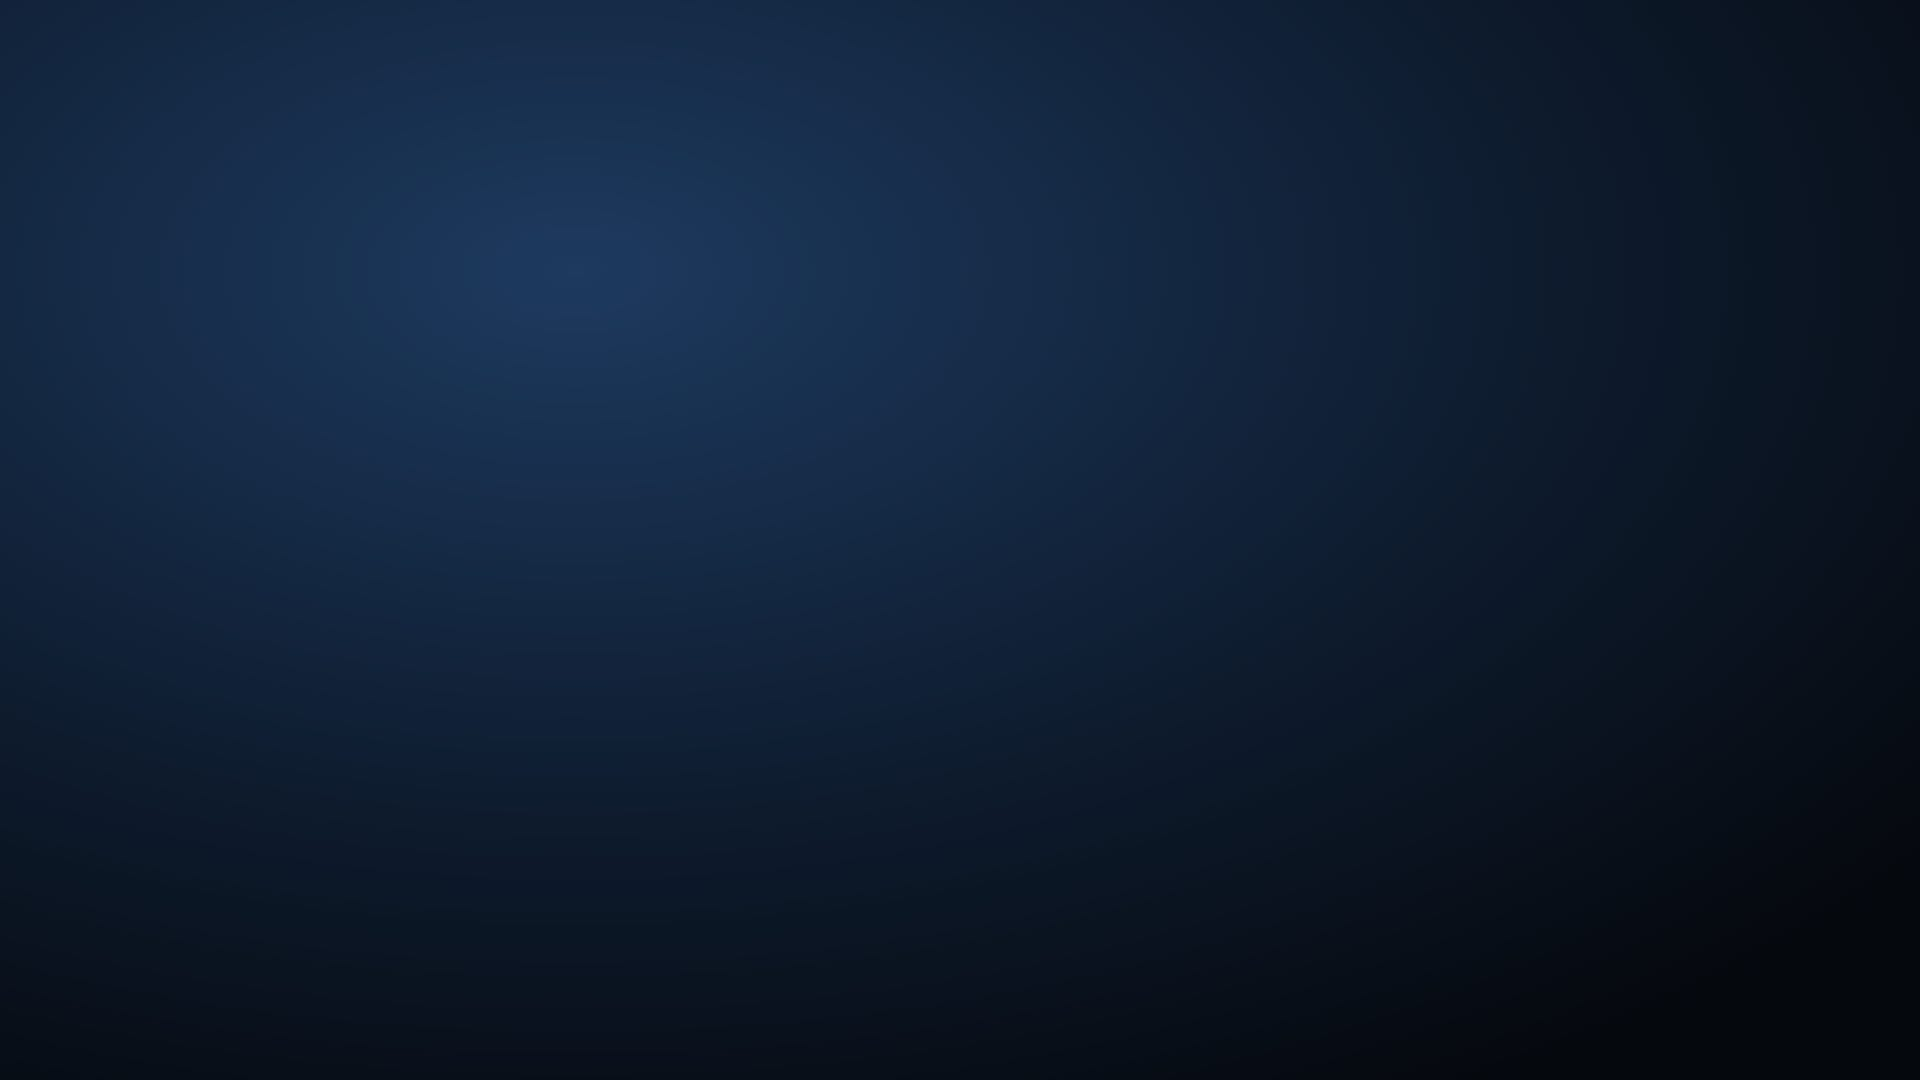
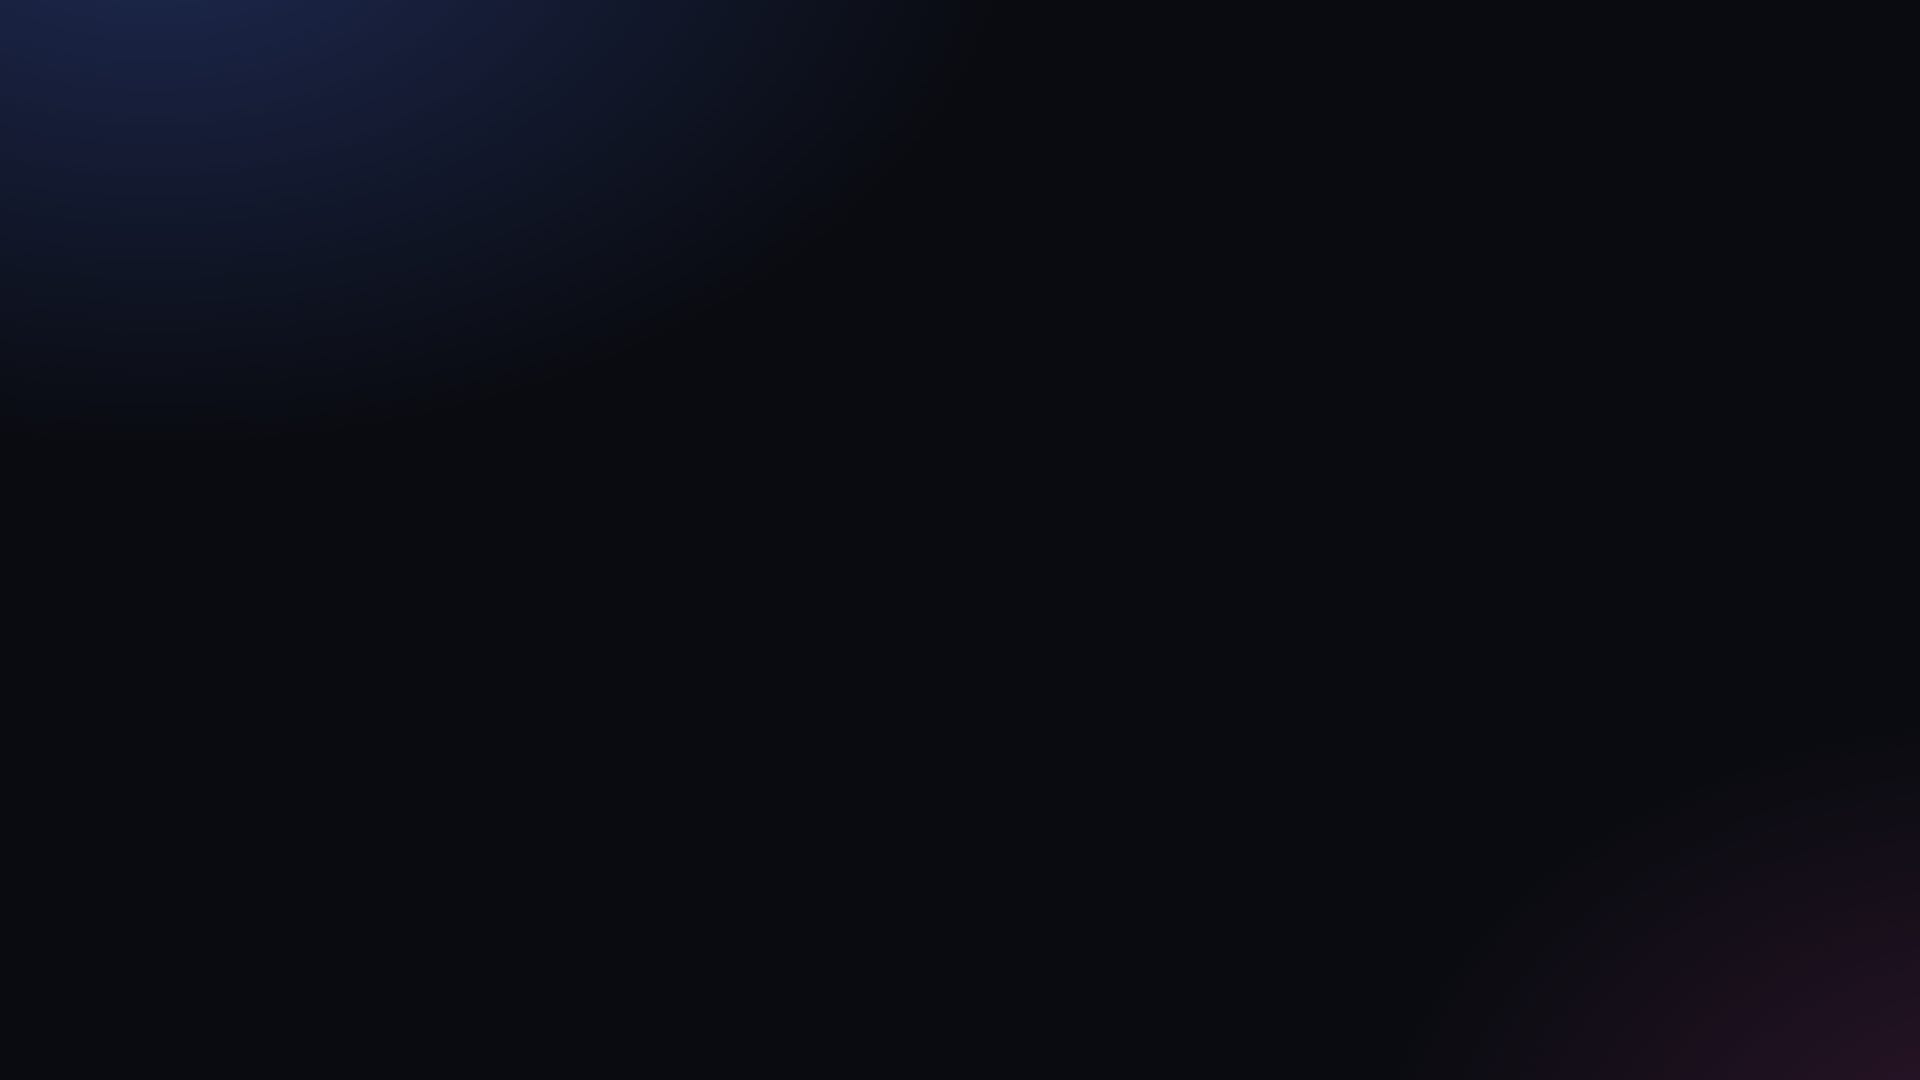
feat(wallpapers): use arn0-tv background as fallback

diff --git a/README.md b/README.md
@@ -7,3 +7,5 @@ The TV-side Home-button takeover is deliberately out of scope.
 ## Design
 
 Layout and visual style are adapted from [arn0-tv](https://github.com/NelsonEU/arn0-tv) (MIT) by Arnaud Etienne. The Manrope font (SIL OFL 1.1, licence in `ui/fonts/OFL.txt`) is vendored from the same project.
+
+The fallback wallpaper (`assets/fallback.jpg`) is arn0-tv's `bg.jpg`, regenerated by `scripts/make-fallback.mjs`; it is temporary until Immich wallpapers are configured.
